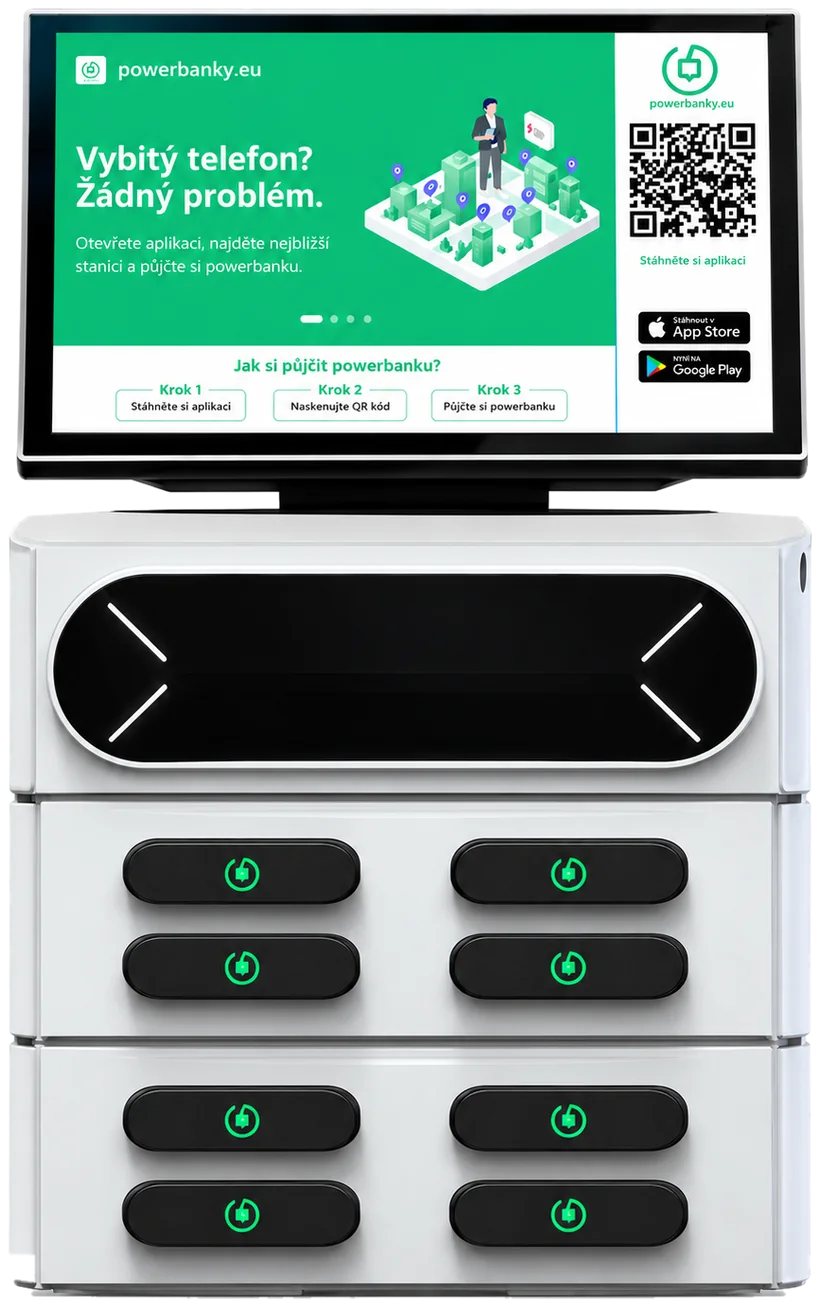
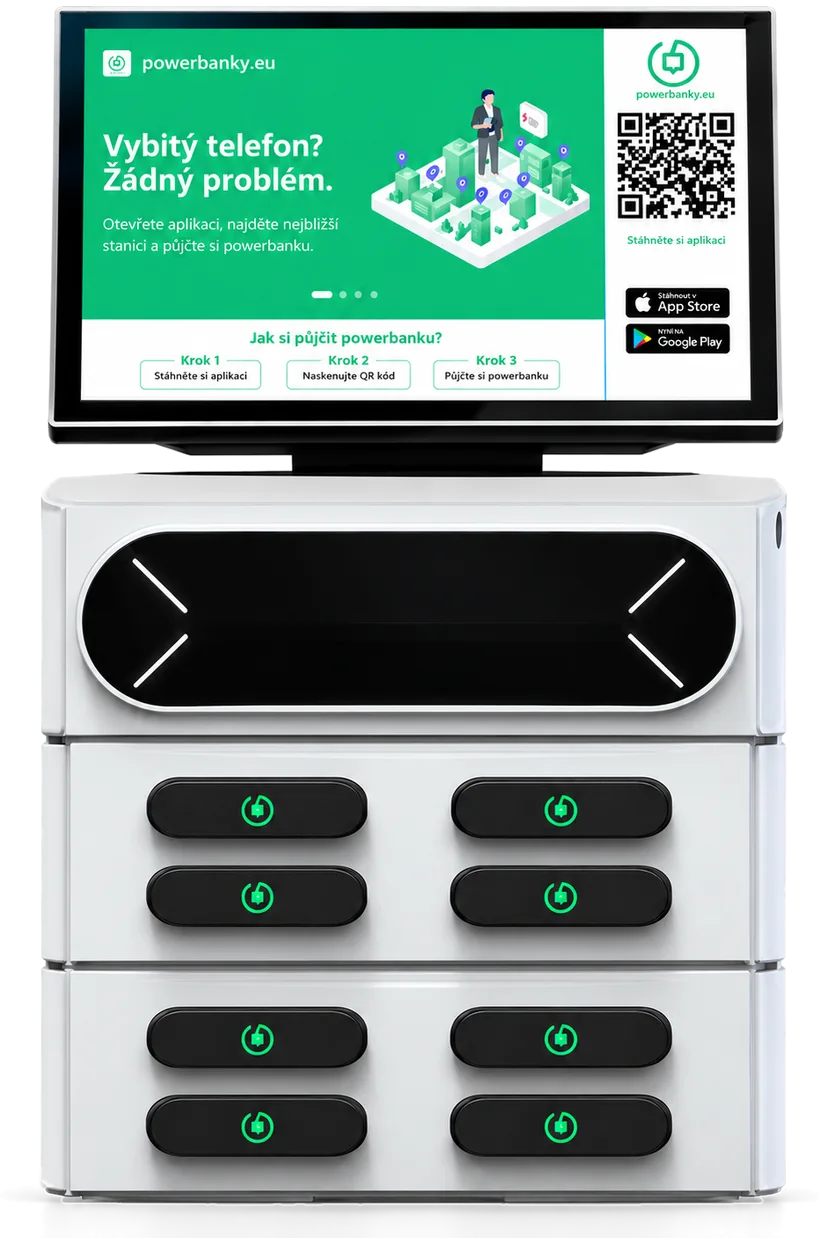
Neutral near-black, real station shadows, green CTAs, mobile station layout
- Replace warm brown ink (#211614) with neutral near-black #161616 site-wide
- Station photos re-cut with the original floor shadow kept as alpha;
  fixed a corner artifact on the side view
- Hero primary button and 'Přidejte se k nim' as green pill buttons;
  hero proof line removed
- Calculator result: label above the amount
- About: no name tag on the photo; copy fix
- Station section on mobile: heading first, smaller photo, then specs;
  benefits section on grey to separate it

Claude-Session: https://claude.ai/code/session_01R1HoLqprxRuYxDgzMJTsmm

diff --git a/styles.css b/styles.css
@@ -5,8 +5,8 @@
   --green: #1BB473;        /* brand fill; text on it is always --ink */
   --green-deep: #0A6B43;   /* green used as text/lines on white */
   --green-hover: #17A066;
-  --ink: #211614;
-  --ink-hover: #3B2E2B;
+  --ink: #161616;      /* near-black, neutral (no brown) */
+  --ink-hover: #2E2E2E;
   --grey: #D9D9D9;
   --grey-soft: #F3F3F3;
   --line: #E4E4E4;
@@ -46,6 +46,8 @@ h3 { font-size: 1.3rem; line-height: 1.15; letter-spacing: -0.03em; }
 .btn { display: inline-flex; align-items: center; justify-content: center; padding: 16px 26px; border: 1.5px solid var(--ink); border-radius: 999px; background: var(--ink); color: #fff; font: 700 1rem/1.2 var(--font-body); text-decoration: none; cursor: pointer; transition: background-color .15s ease, transform .1s ease; }
 .btn:hover { background: var(--ink-hover); border-color: var(--ink-hover); }
 .btn:active { transform: translateY(1px); }
+.btn--green { background: var(--green); border-color: var(--green); color: var(--ink); }
+.btn--green:hover { background: var(--green-hover); border-color: var(--green-hover); }
 .btn--ghost { background: transparent; color: var(--ink); }
 .btn--ghost:hover { background: var(--grey-soft); border-color: var(--ink); }
 .btn[disabled] { opacity: .6; cursor: progress; }
@@ -74,9 +76,7 @@ h3 { font-size: 1.3rem; line-height: 1.15; letter-spacing: -0.03em; }
 .actions { display: flex; flex-wrap: wrap; gap: 12px; margin-top: 36px; }
 
 .hero-photo { position: relative; margin: 0; display: flex; justify-content: center; }
-.hero-photo img { width: auto; max-width: 100%; max-height: min(72vh, 640px); filter: drop-shadow(0 30px 30px rgba(33,22,20,.14)); }
-.hero-proof { display: inline-flex; align-items: center; gap: 12px; margin-top: 32px; font-weight: 600; color: var(--ink); text-decoration: none; }
-.hero-proof:hover { text-decoration: underline; text-decoration-color: var(--green); text-decoration-thickness: 2px; text-underline-offset: 5px; }
+.hero-photo img { width: auto; max-width: 100%; max-height: min(72vh, 640px); }
 .dot { width: 10px; height: 10px; border-radius: 50%; background: var(--green); box-shadow: 0 0 0 4px rgba(27,180,115,.22); }
 
 .facts { display: grid; grid-template-columns: repeat(3, 1fr); border-top: 1px solid var(--line); }
@@ -88,7 +88,7 @@ h3 { font-size: 1.3rem; line-height: 1.15; letter-spacing: -0.03em; }
 /* ---------- Stanice ---------- */
 .station { padding-block: var(--section); }
 .station-grid { display: grid; grid-template-columns: minmax(0, .9fr) minmax(0, 1.1fr); gap: clamp(32px, 6vw, 96px); align-items: center; }
-.station-photo img { width: min(100%, 400px); margin-inline: auto; filter: drop-shadow(0 30px 30px rgba(33,22,20,.14)); }
+.station-photo img { width: min(100%, 400px); margin-inline: auto; }
 .specs { margin-top: 40px; border-top: 1px solid var(--line); }
 .specs > div { display: grid; grid-template-columns: minmax(0, 13rem) minmax(0, 1fr); gap: 8px 32px; padding-block: 22px; border-bottom: 1px solid var(--line); }
 .specs dt { font: 800 1.2rem/1.25 var(--font-head); letter-spacing: -0.03em; }
@@ -110,11 +110,9 @@ h3 { font-size: 1.3rem; line-height: 1.15; letter-spacing: -0.03em; }
 .place-ph { width: 100%; height: 100%; display: grid; place-content: center; justify-items: center; gap: 10px; color: var(--muted); font-size: .9rem; background: repeating-linear-gradient(135deg, #EDEDED 0 12px, #F3F3F3 12px 24px); }
 .place-ph svg { width: 40px; height: 44px; fill: var(--grey); }
 .place-cap { position: absolute; left: 12px; bottom: 12px; padding: 6px 12px; border-radius: 999px; background: #fff; font-size: .85rem; font-weight: 600; }
-.places-foot { display: flex; flex-wrap: wrap; align-items: baseline; justify-content: space-between; gap: 12px 32px; margin-top: 32px; }
+.places-foot { display: flex; flex-wrap: wrap; align-items: center; justify-content: space-between; gap: 12px 32px; margin-top: 32px; }
 .places-foot p { color: var(--muted); }
 .places-foot b { font: 800 1.35rem/1 var(--font-head); letter-spacing: -0.03em; color: var(--ink); margin-right: 4px; }
-.text-link { font-weight: 700; text-decoration: underline; text-decoration-color: var(--green); text-decoration-thickness: 3px; text-underline-offset: 6px; }
-.text-link:hover { color: var(--green-deep); }
 
 /* ---------- Jak to funguje + kalkulačka ---------- */
 .how { padding-block: var(--section); background: var(--grey-soft); }
@@ -133,7 +131,7 @@ h3 { font-size: 1.3rem; line-height: 1.15; letter-spacing: -0.03em; }
 .calc-input input::-webkit-slider-runnable-track { height: 8px; border-radius: 4px; background: linear-gradient(var(--green), var(--green)) 0 / var(--fill, 18%) 100% no-repeat, var(--grey-soft); }
 .calc-input input::-moz-range-track { height: 8px; border-radius: 4px; background: var(--grey-soft); }
 .calc-input input::-moz-range-progress { height: 8px; border-radius: 4px; background: var(--green); }
-.calc-input input::-webkit-slider-thumb { -webkit-appearance: none; width: 28px; height: 28px; margin-top: -10px; border-radius: 50%; background: #fff; border: 2px solid var(--ink); box-shadow: 0 2px 6px rgba(33,22,20,.2); transition: transform .15s ease; }
+.calc-input input::-webkit-slider-thumb { -webkit-appearance: none; width: 28px; height: 28px; margin-top: -10px; border-radius: 50%; background: #fff; border: 2px solid var(--ink); box-shadow: 0 2px 6px rgba(0,0,0,.2); transition: transform .15s ease; }
 .calc-input input::-moz-range-thumb { width: 24px; height: 24px; border-radius: 50%; background: #fff; border: 2px solid var(--ink); }
 .calc-input input:active::-webkit-slider-thumb { transform: scale(1.12); }
 .calc-input input:focus-visible { outline: none; }
@@ -144,13 +142,13 @@ h3 { font-size: 1.3rem; line-height: 1.15; letter-spacing: -0.03em; }
 .rows > div { display: flex; justify-content: space-between; gap: 16px; padding-block: 12px; border-bottom: 1px solid var(--line); }
 .rows dt { color: var(--muted); }
 .rows dd { font-weight: 600; font-variant-numeric: tabular-nums; }
-.calc-result { margin-top: 20px; padding: 22px 24px; border-radius: 18px; background: var(--green); display: flex; flex-wrap: wrap; align-items: baseline; justify-content: space-between; gap: 4px 16px; }
-.calc-result span { font-weight: 700; }
+.calc-result { margin-top: 20px; padding: 22px 24px 24px; border-radius: 18px; background: var(--green); display: flex; flex-direction: column; gap: 10px; }
+.calc-result span { font-weight: 700; line-height: 1.2; }
 .calc-result strong { font: 800 clamp(2.2rem, 4vw, 3rem)/1 var(--font-head); letter-spacing: -0.045em; font-variant-numeric: tabular-nums; white-space: nowrap; }
 .note { margin-top: 14px; font-size: .85rem; color: var(--muted); }
 
 /* ---------- Proč ---------- */
-.why { padding-block: var(--section); border-top: 1px solid var(--line); }
+.why { padding-block: var(--section); background: var(--grey-soft); }
 .why-grid { display: grid; grid-template-columns: minmax(0, .85fr) minmax(0, 1.15fr); gap: clamp(32px, 6vw, 96px); align-items: start; }
 .why-list { display: grid; grid-template-columns: repeat(2, minmax(0, 1fr)); gap: clamp(24px, 4vw, 48px); padding-top: 8px; }
 .why-list h3 { font-size: clamp(1.5rem, 2.4vw, 2rem); line-height: 1.08; }
@@ -163,19 +161,16 @@ h3 { font-size: 1.3rem; line-height: 1.15; letter-spacing: -0.03em; }
 .team-grid { display: grid; grid-template-columns: minmax(0, .9fr) minmax(0, 1.1fr); gap: clamp(32px, 6vw, 96px); align-items: center; }
 .team-photo { position: relative; border-radius: 28px; overflow: hidden; background: #fff; aspect-ratio: 4 / 4.6; display: flex; align-items: flex-end; justify-content: center; }
 .team-photo img { width: 92%; }
-.team-photo figcaption { position: absolute; left: 16px; bottom: 16px; padding: 8px 14px; border-radius: 999px; background: var(--ink); color: #fff; font-weight: 600; font-size: .9rem; }
 .team h2 { color: #fff; max-width: 15ch; }
-.team-copy > p { margin-top: 20px; color: #D2CCCA; max-width: 52ch; font-size: 1.1rem; }
+.team-copy > p { margin-top: 20px; color: #CFCFCF; max-width: 52ch; font-size: 1.1rem; }
 .team-copy > p:first-of-type { margin-top: 28px; }
 .team h2 { max-width: 18ch; }
 .founders { display: flex; flex-wrap: wrap; gap: 16px 40px; margin: 36px 0 40px; padding-top: 28px; border-top: 1px solid rgba(255,255,255,.16); }
 .founders li { display: flex; align-items: center; gap: 14px; }
 .founders strong { display: block; font-weight: 700; color: #fff; }
-.founders li > span:last-child { color: #BDB5B3; font-size: .95rem; }
+.founders li > span:last-child { color: #B5B5B5; font-size: .95rem; }
 .team .avatar { background: #fff; }
-.team .avatar--empty { background: #3B2E2B; color: #BDB5B3; }
-.team .btn { background: var(--green); border-color: var(--green); color: var(--ink); }
-.team .btn:hover { background: var(--green-hover); border-color: var(--green-hover); }
+.team .avatar--empty { background: #2E2E2E; color: #B5B5B5; }
 .team :focus-visible { outline-color: var(--green); }
 
 /* ---------- FAQ ---------- */
@@ -219,8 +214,7 @@ h3 { font-size: 1.3rem; line-height: 1.15; letter-spacing: -0.03em; }
 .footer-note { color: var(--muted); font-size: .9rem; }
 
 /* ---------- Tap targets (≥44px without shifting layout) ---------- */
-.logo, .hero-proof, .text-link, .footer-links a { padding-block: 12px; margin-block: -12px; }
-.footer-links a { display: inline-block; }
+.logo, .footer-links a { display: inline-block; }
 .calc-input input { height: 44px; }
 
 /* ---------- Responsive ---------- */
@@ -232,8 +226,7 @@ h3 { font-size: 1.3rem; line-height: 1.15; letter-spacing: -0.03em; }
   .hero h1 { order: 1; }
   .hero-photo { order: 2; margin-top: 20px; }
   .hero-photo img { max-height: min(40svh, 340px); }
-  .hero-proof { order: 5; margin-top: 20px; }
-  .lead { order: 3; margin-top: 24px; }
+    .lead { order: 3; margin-top: 24px; }
   .actions { order: 4; margin-top: 24px; }
   .calc { position: static; }
   .place { width: 220px; height: 290px; }
@@ -244,6 +237,13 @@ h3 { font-size: 1.3rem; line-height: 1.15; letter-spacing: -0.03em; }
   .team-photo { max-width: 460px; }
 }
 @media (max-width: 600px) {
+  .station-grid { gap: 0; }
+  .station-copy { display: contents; }
+  .station-copy h2 { order: 1; }
+  .station .section-lead { order: 2; }
+  .station-photo { order: 3; margin: 32px 0 8px; }
+  .station-photo img { width: auto; max-height: 300px; }
+  .specs { order: 4; margin-top: 24px; }
   .nav-cta { padding: 9px 14px; font-size: .95rem; }
   .logo { font-size: 1.05rem; }
   .specs > div { grid-template-columns: 1fr; }

diff --git a/index.html b/index.html
@@ -43,14 +43,13 @@
           <h1>Stanici vám dáme zdarma. Tržby dělíme napůl.</h1>
           <p class="lead">Hosté si u&nbsp;vás půjčí nabitou powerbanku a&nbsp;vy dostanete polovinu z&nbsp;každé výpůjčky. Instalaci, servis i&nbsp;zákaznickou podporu řešíme my.</p>
           <div class="actions">
-            <a class="btn" href="#kontakt">Chci stanici zdarma</a>
+            <a class="btn btn--green" href="#kontakt">Chci stanici zdarma</a>
             <a class="btn btn--ghost" href="#jak">Kolik vyděláte</a>
           </div>
-          <a class="hero-proof" href="#mista"><span class="dot" aria-hidden="true"></span>Už v&nbsp;desítkách podniků po celé ČR</a>
         </div>
 
         <figure class="hero-photo">
-          <img src="assets/img/stanice-z-boku.webp" alt="Nabíjecí stanice powerbanky.eu s displejem a osmi powerbankami" width="820" height="1164" fetchpriority="high">
+          <img src="assets/img/stanice-z-boku.webp" alt="Nabíjecí stanice powerbanky.eu s displejem a osmi powerbankami" width="820" height="1165" fetchpriority="high">
         </figure>
       </div>
 
@@ -157,7 +156,7 @@
       </div>
       <div class="wrap places-foot">
         <p><b>Desítky podniků</b> po celé ČR, a&nbsp;další přibývají</p>
-        <a class="text-link" href="#kontakt">Přidejte se k&nbsp;nim</a>
+        <a class="btn btn--green" href="#kontakt">Přidejte se k&nbsp;nim</a>
       </div>
     </section>
 
@@ -216,7 +215,7 @@
     <section class="station" id="stanice">
       <div class="wrap station-grid">
         <figure class="station-photo">
-          <img src="assets/img/stanice-zepredu.webp" alt="Stanice zepředu: displej nahoře, osm powerbank pod ním" width="820" height="1306" loading="lazy">
+          <img src="assets/img/stanice-zepredu.webp" alt="Stanice zepředu: displej nahoře, osm powerbank pod ním" width="820" height="1238" loading="lazy">
         </figure>
         <div class="station-copy">
           <h2>Stanice, která se o&nbsp;sebe postará sama.</h2>
@@ -257,17 +256,16 @@
       <div class="wrap team-grid">
         <figure class="team-photo">
           <img src="assets/img/oliver.webp" alt="Oliver Huml, spoluzakladatel powerbanky.eu" width="760" height="924" loading="lazy">
-          <figcaption>Oliver Huml</figcaption>
         </figure>
         <div class="team-copy">
           <h2>Univerzitní projekt, který drží baterku na 100% nabitou.</h2>
-          <p>powerbanky.eu stavíme při studiu. Stanice vozíme a&nbsp;zapojujeme sami, podniky obcházíme osobně a&nbsp;telefon, který najdete na stanici, zvedá jeden z&nbsp;nás. Žádné call centrum, žádná přepojování.</p>
+          <p>powerbanky.eu stavíme při studiu. Stanice vozíme a&nbsp;zapojujeme sami, podniky obcházíme osobně a&nbsp;telefon, který najdete na stanici, zvedá jeden z&nbsp;nás. Žádné call centrum a&nbsp;žádná přepojování.</p>
           <ul class="founders">
             <li><span class="avatar avatar--lg" aria-hidden="true">OH<img src="assets/img/oliver.webp" alt="" width="56" height="56" onerror="this.remove()"></span><span><strong>Oliver Huml</strong>Spoluzakladatel</span></li>
             <!-- TODO: doplnit jméno a fotku druhého zakladatele -->
             <li><span class="avatar avatar--lg avatar--empty" aria-hidden="true">?</span><span><strong>Jméno Příjmení</strong>Spoluzakladatel</span></li>
           </ul>
-          <a class="btn" href="#kontakt">Napište nám</a>
+          <a class="btn btn--green" href="#kontakt">Napište nám</a>
         </div>
       </div>
     </section>
